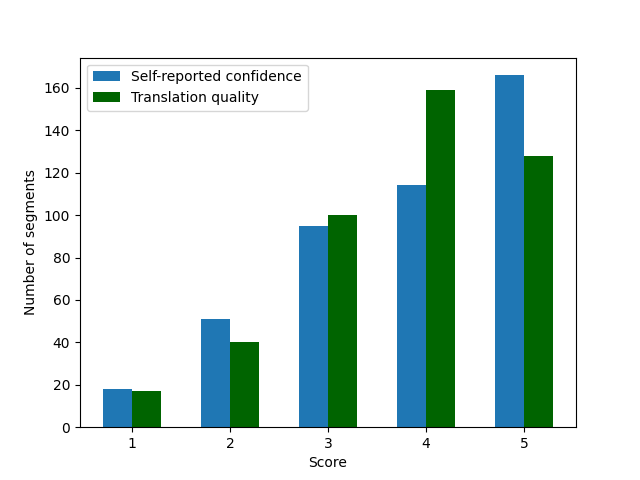
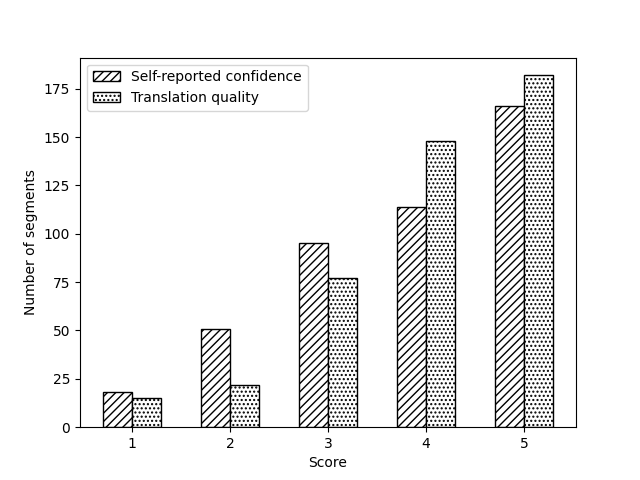
make all the graphs grayscale, edit histogram rounding

diff --git a/meta/study_pbml/src/conf_obj_hist.py b/meta/study_pbml/src/conf_obj_hist.py
@@ -8,7 +8,7 @@ import numpy as np
 from collections import Counter
 import math
 
-GRAYSCALE = True
+GRAYSCALE = False
 
 parser = argparse.ArgumentParser(description='PBML log processing.')
 parser.add_argument('blog3', help='Path to a blog3 file')
@@ -24,7 +24,7 @@ grades = []
 
 for segment in data:
     if segment.grades != {}:
-        grades.append(math.floor(np.average(list(segment.grades.values()))))
+        grades.append(np.round(np.average(list(segment.grades.values()))))
         ratings.append(segment.score)
 
 ratings = Counter(ratings)
